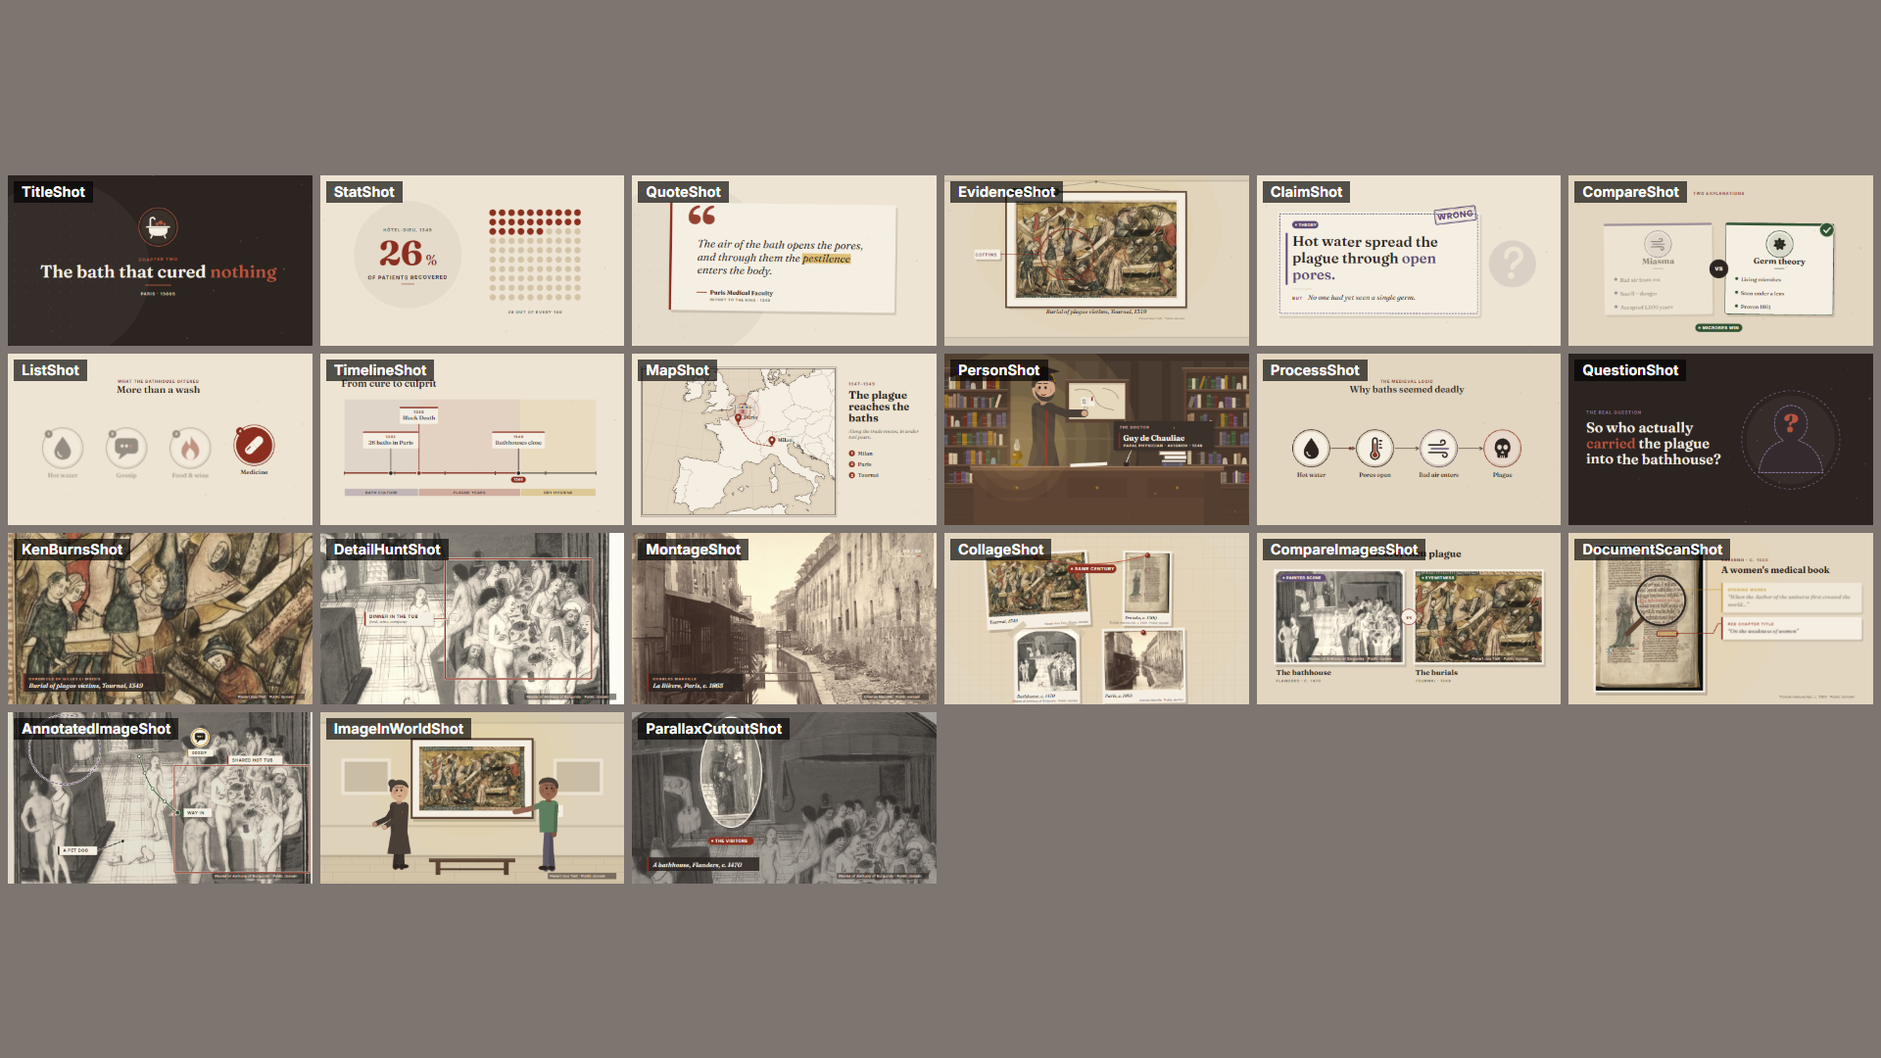
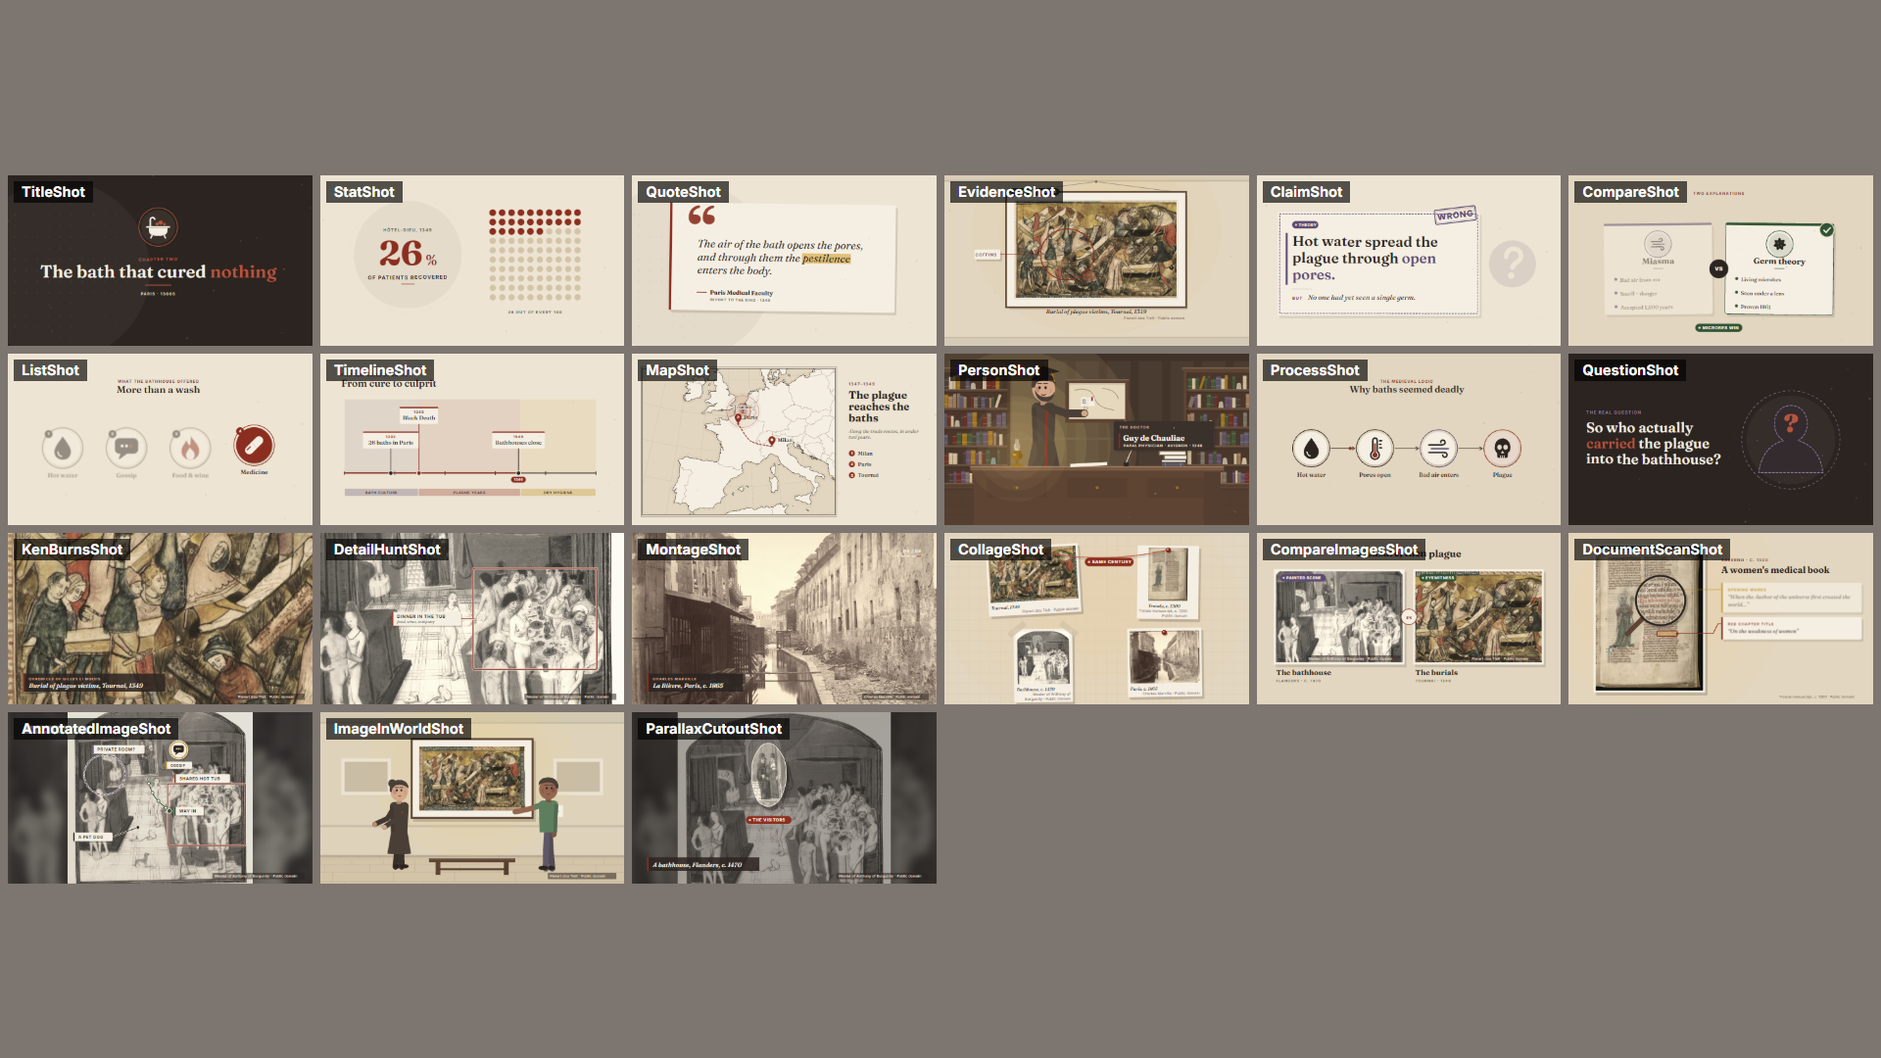
Kit: fix backlog flaws (text >= 22px, balanced collage, paper-cut parallax, framed square/portrait images)

Changed region(s): [[0.0, 0.4889, 0.5, 0.8556], [0.5, 0.5194, 0.6562, 0.6722]]

diff --git a/src/kit/archival.tsx b/src/kit/archival.tsx
@@ -38,14 +38,19 @@ const lerpFocus = (a: Focus, b: Focus, k: number): Focus => [lerp(a[0], b[0], k)
 /** Tiny handheld drift on a focus (alive holds). */
 const alive = (f: Focus, t: number, seed = 0, amt = 1): Focus => [f[0] + noise1(t * 0.22, seed + 1) * 0.004 * amt, f[1] + noise1(t * 0.2, seed + 2) * 0.004 * amt, f[2] * (1 + noise1(t * 0.17, seed + 3) * 0.004 * amt)];
 
+/** Full-frame images narrower than this (w/h) are shown whole at full height over a calm backdrop, not cropped to a band. */
+const FULL_MIN_ASPECT = 1.3;
+
 /** Where an image of `aspect` (w/h) lands inside a w×h window aimed at focus f: {left, top, IW, IH} (window px). */
 export const viewRect = (w: number, h: number, aspect: number, f: Focus) => {
-  const iw0 = Math.max(w, h * aspect);
+  // Full-frame (1920×1080) window + square/portrait image (aspect < FULL_MIN_ASPECT): show the WHOLE image at full height
+  // (zoom 1 = fit height, centred) instead of cropping to a horizontal band. ArchImage fills the side bars.
+  const iw0 = w === 1920 && h === 1080 && aspect < FULL_MIN_ASPECT ? h * aspect : Math.max(w, h * aspect);
   const ih0 = iw0 / aspect;
   const z = Math.max(1, f[2]);
   const IW = iw0 * z;
   const IH = ih0 * z;
-  return {left: clamp(w / 2 - f[0] * IW, w - IW, 0), top: clamp(h / 2 - f[1] * IH, h - IH, 0), IW, IH};
+  return {left: IW <= w ? (w - IW) / 2 : clamp(w / 2 - f[0] * IW, w - IW, 0), top: clamp(h / 2 - f[1] * IH, h - IH, 0), IW, IH};
 };
 export type ViewRect = ReturnType<typeof viewRect>;
 /** Image point (rx, ry) → window point (add the window's x/y for stage coords). */
@@ -80,7 +85,13 @@ export const ArchImage: React.FC<{
   return (
     <foreignObject x={x} y={y} width={w} height={h} opacity={o}>
       <div style={{width: w, height: h, overflow: 'hidden', position: 'relative', background: bg, clipPath: clip, borderRadius: round ? '50%' : undefined}}>
-        <Img src={staticFile(`${slug}/${src}`)} style={{position: 'absolute', left: v.left, top: v.top, width: v.IW, height: v.IH, maxWidth: 'none', filter: f}} />
+        {v.left > 0 && bg !== 'transparent' && (
+          <Img
+            src={staticFile(`${slug}/${src}`)}
+            style={{position: 'absolute', left: (w - Math.max(w, h * aspect) * 1.12) / 2, top: (h - (Math.max(w, h * aspect) * 1.12) / aspect) / 2, width: Math.max(w, h * aspect) * 1.12, height: (Math.max(w, h * aspect) * 1.12) / aspect, maxWidth: 'none', filter: `${f === 'none' ? '' : f + ' '}blur(28px) brightness(0.55) saturate(0.8)`}}
+          />
+        )}
+        <Img src={staticFile(`${slug}/${src}`)} style={{position: 'absolute', left: v.left, top: v.top, width: v.IW, height: v.IH, maxWidth: 'none', filter: f, boxShadow: v.left > 0 ? `0 24px 70px ${C.ink}88` : undefined}} />
         {tint === 'paper' && <div style={{position: 'absolute', inset: 0, background: C.paper, opacity: 0.12, mixBlendMode: 'multiply'}} />}
         {wash > 0 && <div style={{position: 'absolute', inset: 0, background: C.paper, opacity: wash}} />}
         {dim > 0 && <div style={{position: 'absolute', inset: 0, background: C.ink, opacity: dim}} />}
@@ -492,26 +503,51 @@ const SLOTS: Record<number, [number, number, number][]> = {
     [1460, 720, 470],
   ],
   4: [
-    [640, 300, 600],
-    [1290, 290, 560],
-    [700, 750, 560],
-    [1270, 745, 560],
+    [640, 285, 600],
+    [1290, 285, 560],
+    [700, 775, 560],
+    [1270, 770, 560],
   ],
   5: [
-    [420, 350, 430],
-    [930, 300, 420],
-    [1460, 380, 430],
-    [690, 770, 430],
-    [1260, 790, 430],
+    [420, 335, 430],
+    [930, 285, 420],
+    [1460, 365, 430],
+    [690, 785, 430],
+    [1260, 805, 430],
   ],
   6: [
-    [400, 320, 390],
-    [880, 290, 380],
-    [1390, 320, 410],
-    [540, 770, 410],
-    [1030, 740, 390],
-    [1510, 770, 390],
+    [400, 305, 390],
+    [880, 275, 380],
+    [1390, 305, 410],
+    [540, 785, 410],
+    [1030, 755, 390],
+    [1510, 785, 390],
   ],
+};
+
+/** Split a credit into lines that fit a print's inner width (breaks at " · " first, then at spaces). */
+const wrapCredit = (text: string, maxW: number): string[] => {
+  const fit = (x: string) => textW(x, 22, 'sans', 500) <= maxW;
+  const lines: string[] = [];
+  let cur = '';
+  for (const unit of text.split(' · ')) {
+    const joined = cur ? cur + ' · ' + unit : unit;
+    if (fit(joined)) {
+      cur = joined;
+      continue;
+    }
+    if (cur) lines.push(cur);
+    cur = '';
+    for (const word of unit.split(' ')) {
+      const w2 = cur ? cur + ' ' + word : word;
+      if (cur && !fit(w2)) {
+        lines.push(cur);
+        cur = word;
+      } else cur = w2;
+    }
+  }
+  if (cur) lines.push(cur);
+  return lines;
 };
 
 /**
@@ -530,12 +566,56 @@ export const CollageShot: React.FC<
     const sl = slots[i % slots.length];
     const asp = it.aspect ?? 1.4;
     let w = it.w ?? sl[2];
-    const hMax = items.length <= 2 ? 540 : items.length <= 4 ? 350 : 320;
+    const hMax = items.length <= 2 ? 540 : items.length <= 4 ? 310 : 320;
     if (w / asp > hMax) w = hMax * asp;
     const h = w / asp;
     const rot = it.rot ?? (rand(seed * 3.3 + i * 1.7) - 0.5) * 9;
-    return {x: it.x ?? sl[0], y: it.y ?? sl[1], w, h, rot, at: it.at ?? t0 + i * gap, pad: 14, bottom: it.label && it.credit ? 78 : it.label ? 56 : it.credit ? 36 : 14};
+    const cl = it.credit ? wrapCredit(it.credit, Math.max(w, 340)) : [];
+    const pw = Math.max(w + 28, ...cl.map((ln) => textW(ln, 22, 'sans', 500) + 28)); // paper widens for a long credit line
+    const ex = Math.max(0, cl.length - 1) * 28; // extra room for wrapped credit lines
+    return {x: it.x ?? sl[0], y: it.y ?? sl[1], w, h, rot, at: it.at ?? t0 + i * gap, pad: 14, bottom: (it.label && it.credit ? 80 : it.label ? 56 : it.credit ? 40 : 14) + ex, cl, pw};
   });
+  // Axis-aligned bounds of each (rotated) print incl. paper margin and shadow.
+  const boxOf = (L: (typeof lay)[number]) => {
+    const r = (L.rot * Math.PI) / 180;
+    const hw = L.pw / 2;
+    const hh = (L.h + L.pad + L.bottom) / 2;
+    const oy = (L.bottom - L.pad) / 2;
+    const ex = Math.abs(Math.cos(r)) * hw + Math.abs(Math.sin(r)) * hh;
+    const ey = Math.abs(Math.sin(r)) * hw + Math.abs(Math.cos(r)) * hh;
+    return {x0: L.x - Math.sin(r) * oy - ex, x1: L.x - Math.sin(r) * oy + ex, y0: L.y + Math.cos(r) * oy - ey, y1: L.y + Math.cos(r) * oy + ey};
+  };
+  // A string-link label must fit between the two linked prints: when they sit side by side, push the columns apart.
+  const lbl = link?.label;
+  const lblW = lbl ? textW(lbl.toUpperCase(), 26, 'sansCaps', 700) + 26 * 2.3 + 16 : 0;
+  if (link && lbl && link.style !== 'arrow' && items[link.from].x === undefined && items[link.to].x === undefined) {
+    const A = boxOf(lay[link.from]);
+    const B = boxOf(lay[link.to]);
+    const [l, r] = A.x1 <= B.x1 ? [A, B] : [B, A];
+    const extra = lblW + 24 - (r.x0 - l.x1);
+    if (extra > 0 && Math.min(A.y1, B.y1) - Math.max(A.y0, B.y0) > 0) {
+      const mx = (l.x1 + r.x0) / 2;
+      lay.forEach((L, i) => {
+        if (items[i].x === undefined && items[i].y === undefined) L.x += (L.x < mx ? -1 : 1) * (extra / 2);
+      });
+    }
+  }
+  // Rebalance the auto-placed prints around the frame centre (slots are hand-set and drift left/low); explicit x/y stay as given.
+  {
+    const ext = lay.map(boxOf);
+    const bx0 = Math.min(...ext.map((e) => e.x0));
+    const bx1 = Math.max(...ext.map((e) => e.x1));
+    const by0 = Math.min(...ext.map((e) => e.y0));
+    const by1 = Math.max(...ext.map((e) => e.y1));
+    const dx = 985 - (bx0 + bx1) / 2; // camera drift 915→1005 + settle: aim a little right so the settled frame is centred
+    const dy = clamp(540 - (by0 + by1) / 2, -70, 70);
+    lay.forEach((L, i) => {
+      if (items[i].x === undefined && items[i].y === undefined) {
+        L.x += dx;
+        L.y += dy;
+      }
+    });
+  }
   const pinOf = (i: number): XY => {
     const L = lay[i];
     const r = (L.rot * Math.PI) / 180;
@@ -547,7 +627,7 @@ export const CollageShot: React.FC<
   const mid = link ? {x: (lay[link.from].x + lay[link.to].x) / 2, y: (lay[link.from].y + lay[link.to].y) / 2} : {x: 960, y: 540};
   const k = ramp(t, a - 0.3, b + 0.5, ease.inOutSine);
   const lk = link ? ramp(t, linkAt - 0.2, linkAt + 1.2, ease.inOut) * 0.15 : 0;
-  const cam: CamState = breathe({cx: lerp(lerp(915, 1005, k), mid.x, lk), cy: lerp(lerp(548, 532, k), mid.y, lk), z: lerp(1.02, 1.06, k) + lk * 0.1, r: 0}, t, 0.8);
+  const cam: CamState = breathe({cx: lerp(lerp(915, 1005, k), mid.x, lk), cy: lerp(lerp(548, 532, k), mid.y, lk * 0.5), z: lerp(1.02, 1.06, k) + lk * 0.1, r: 0}, t, 0.8);
   const lineCol = dark ? mixHex(C.inkSoft, C.paperLight, 0.07) : mixHex(C.paperShade, C.ink, 0.06);
   const board_ = (
     <g>
@@ -569,7 +649,7 @@ export const CollageShot: React.FC<
     const s = lerp(1.14, 1, kk);
     const rot = L.rot + (1 - kk) * (i % 2 ? -7 : 7);
     const sh = lerp(34, 12, kk);
-    const W = L.w + L.pad * 2;
+    const W = L.pw;
     const H = L.h + L.pad + L.bottom;
     const fasten = link && link.style !== 'arrow' && (i === link.from || i === link.to) ? 'pin' : (it.fasten ?? (i % 2 ? 'pin' : 'tape'));
     const f: Focus = [0.5, 0.5, lerp(1.0, 1.06, ramp(t, L.at, b + 1, ease.inOutSine))];
@@ -579,8 +659,12 @@ export const CollageShot: React.FC<
         <rect x={-W / 2} y={-L.h / 2 - L.pad} width={W} height={H} rx={3} fill={C.paperLight} />
         <ArchImage slug={slug} src={it.src} x={-L.w / 2} y={-L.h / 2} w={L.w} h={L.h} aspect={it.aspect ?? 1.4} focus={f} tint={tint} />
         {it.credit && (
-          <text x={L.w / 2} y={L.h / 2 + (it.label ? 66 : 28)} textAnchor="end" fontFamily={FONT_SANS} fontWeight={500} fontSize={17} fill={C.inkFaint}>
-            {it.credit}
+          <text x={L.w / 2} y={L.h / 2 + (it.label ? 68 : 30)} textAnchor="end" fontFamily={FONT_SANS} fontWeight={500} fontSize={22} fill={C.inkFaint}>
+            {L.cl.map((ln, j) => (
+              <tspan key={j} x={L.w / 2} dy={j ? 28 : 0}>
+                {ln}
+              </tspan>
+            ))}
           </text>
         )}
         {it.label && (
@@ -628,9 +712,32 @@ export const CollageShot: React.FC<
       );
     }
   }
-  const lbl = link?.label;
-  const lblX = link ? (lay[link.from].x + lay[link.to].x) / 2 : 0;
-  const lblY = link ? (link.style === 'arrow' ? Math.min(lay[link.from].y, lay[link.to].y) - 40 : Math.max(pinOf(link.from).y, pinOf(link.to).y) + 70) : 0;
+  let lblX = link ? (lay[link.from].x + lay[link.to].x) / 2 : 0;
+  let lblY = link ? (link.style === 'arrow' ? Math.min(lay[link.from].y, lay[link.to].y) - 40 : Math.max(pinOf(link.from).y, pinOf(link.to).y) + 70) : 0;
+  if (link && lbl) {
+    // Keep the label clear of every print: search around the default spot for the nearest free position (else least overlap).
+    const lw = lblW;
+    const lh = 26 * 1.9 + 16;
+    const bs = lay.map(boxOf);
+    const fa = bs[link.from];
+    const ta = bs[link.to];
+    if (link.style !== 'arrow' && Math.min(fa.y1, ta.y1) - Math.max(fa.y0, ta.y0) > 0) lblX = fa.x1 <= ta.x0 ? (fa.x1 + ta.x0) / 2 : ta.x1 <= fa.x0 ? (ta.x1 + fa.x0) / 2 : lblX; // centre of the gap between side-by-side prints
+    const over = (x: number, y: number) =>
+      bs.reduce((acc, q) => acc + Math.max(0, Math.min(x + lw / 2, q.x1 + 6) - Math.max(x - lw / 2, q.x0 - 6)) * Math.max(0, Math.min(y + lh / 2, q.y1 + 6) - Math.max(y - lh / 2, q.y0 - 6)), 0);
+    let best = {x: lblX, y: lblY, o: over(lblX, lblY), d: 0};
+    for (let dy2 = -400; dy2 <= 400; dy2 += 20) {
+      for (let dx2 = -420; dx2 <= 420; dx2 += 20) {
+        const x = lblX + dx2;
+        const y = lblY + dy2;
+        if (x - lw / 2 < 60 || x + lw / 2 > 1860 || y - lh / 2 < 90 || y + lh / 2 > 1000) continue;
+        const o = over(x, y);
+        const d = Math.hypot(dx2, dy2);
+        if (o < best.o - 1 || (o <= best.o + 1 && d < best.d && o < 1)) best = {x, y, o, d};
+      }
+    }
+    lblX = best.x;
+    lblY = best.y;
+  }
   return (
     <Stage bg={bg}>
       <World
@@ -1304,17 +1411,20 @@ export const ParallaxCutoutShot: React.FC<ArchBase & {src: string; aspect?: numb
   const par = {x: (cen.x - cenL.x) * 0.7 * depth * lift, y: (cen.y - cenL.y) * 0.7 * depth * lift};
   const sc = 1 + 0.07 * lift;
   const tf = `translate(${cen.x + par.x} ${cen.y + par.y}) scale(${sc}) translate(${-cen.x} ${-cen.y})`;
-  const clip = box ? (box.ell ? `ellipse(${box.w / 2}px ${box.h / 2}px at ${box.x + box.w / 2}px ${box.y + box.h / 2}px)` : `inset(${box.y}px ${1920 - box.x - box.w}px ${1080 - box.y - box.h}px ${box.x}px)`) : `polygon(${pts.map((q) => `${q.x}px ${q.y}px`).join(', ')})`;
+  // An ellipse cut is drawn as a slightly irregular hand-cut outline (a perfect ellipse + thick ring reads as a camera lens).
+  const cutPts: XY[] = box && box.ell ? Array.from({length: 72}, (_, i) => {
+        const th = (i / 72) * Math.PI * 2;
+        const k = 1 + 0.014 * Math.sin(3 * th + seed * 1.7) + 0.01 * Math.sin(5 * th + seed * 3.1) + 0.006 * Math.sin(9 * th + seed * 0.6);
+        return {x: box.x + box.w / 2 + Math.cos(th) * (box.w / 2) * k, y: box.y + box.h / 2 + Math.sin(th) * (box.h / 2) * k};
+      }) : pts;
+  const clip = box && !box.ell ? `inset(${box.y}px ${1920 - box.x - box.w}px ${1080 - box.y - box.h}px ${box.x}px)` : `polygon(${cutPts.map((q) => `${q.x}px ${q.y}px`).join(', ')})`;
   const shape = (props: React.SVGProps<SVGElement>) =>
-    box ? (
-      box.ell ? (
-        <ellipse cx={box.x + box.w / 2} cy={box.y + box.h / 2} rx={box.w / 2} ry={box.h / 2} {...(props as React.SVGProps<SVGEllipseElement>)} />
-      ) : (
-        <rect x={box.x} y={box.y} width={box.w} height={box.h} {...(props as React.SVGProps<SVGRectElement>)} />
-      )
+    box && !box.ell ? (
+      <rect x={box.x} y={box.y} width={box.w} height={box.h} {...(props as React.SVGProps<SVGRectElement>)} />
     ) : (
-      <polygon points={pts.map((q) => `${q.x},${q.y}`).join(' ')} {...(props as React.SVGProps<SVGPolygonElement>)} />
+      <polygon points={cutPts.map((q) => `${q.x},${q.y}`).join(' ')} {...(props as React.SVGProps<SVGPolygonElement>)} />
     );
+  const rim = box && box.ell ? 8 : 14; // thin paper edge for the hand-cut blob, original ring for boxes / polygons
   const bgFilter = `grayscale(${0.55 * lift})`;
   const lp = label ? ramp(t, label.at ?? t0 + 0.7, (label.at ?? t0 + 0.7) + 0.6, ease.linear) : 0;
   const top = box ? box.y : Math.min(...pts.map((q) => q.y));
@@ -1340,8 +1450,9 @@ export const ParallaxCutoutShot: React.FC<ArchBase & {src: string; aspect?: numb
       />
       {lift > 0 && (
         <g transform={tf}>
+          {rim < 14 && <g transform={`translate(${34 * lift} ${46 * lift})`}>{shape({fill: C.ink, opacity: 0.16 * lift})}</g>}
           <g transform={`translate(${18 * lift} ${26 * lift})`}>{shape({fill: C.ink, opacity: 0.4 * lift})}</g>
-          {shape({fill: 'none', stroke: C.paperLight, strokeWidth: 14 * lift, strokeLinejoin: 'round'})}
+          {shape({fill: 'none', stroke: C.paperLight, strokeWidth: rim * lift, strokeLinejoin: 'round'})}
           <ArchImage slug={slug} src={src} x={0} y={0} w={1920} h={1080} aspect={aspect} focus={f} tint={tint} clip={clip} bg="transparent" />
         </g>
       )}

diff --git a/src/gallery/pages/archival.tsx b/src/gallery/pages/archival.tsx
@@ -124,7 +124,7 @@ const SHOTS: ((t: number, a: number, b: number) => React.ReactNode)[] = [
         {kind: 'outline', rx: 0.75, ry: 0.62, rw: 0.42, rh: 0.34, shape: 'box', label: 'Shared hot tub', sem: 'signal', at: a + 0.3},
         {kind: 'outline', rx: 0.2, ry: 0.4, rw: 0.22, rh: 0.22, dashed: true, label: 'Private room?', at: a + 0.8},
         {kind: 'flow', points: [[0.43, 0.42], [0.47, 0.52], [0.55, 0.6]], label: 'Way in', sem: 'evidence', at: a + 1.2, dur: 0.9},
-        {kind: 'icon', rx: 0.62, ry: 0.36, icon: 'speech', label: 'Gossip', sem: 'caution', at: a + 1.7},
+        {kind: 'icon', rx: 0.6, ry: 0.26, icon: 'speech', label: 'Gossip', sem: 'caution', at: a + 1.7},
         {kind: 'label', rx: 0.38, ry: 0.69, text: 'A pet dog', sem: 'ink', at: a + 2.0, dx: -160, dy: 60},
       ]}
     />

diff --git a/src/kit/photo.tsx b/src/kit/photo.tsx
@@ -83,7 +83,7 @@ export const Photo: React.FC<{
         </text>
       )}
       {credit && (
-        <text x={W / 2 - 4} y={h / 2 + pad + (caption ? 78 : 30) + (frame === 'polaroid' ? 10 : 0)} textAnchor="end" fontFamily={FONT_SANS} fontWeight={600} fontSize={16} letterSpacing={1} fill={textCol} opacity={0.85}>
+        <text x={W / 2 - 4} y={h / 2 + pad + (caption ? 78 : 30) + (frame === 'polaroid' ? 10 : 0)} textAnchor="end" fontFamily={FONT_SANS} fontWeight={600} fontSize={22} letterSpacing={1} fill={textCol} opacity={0.85}>
           {credit}
         </text>
       )}

diff --git a/src/kit/text.tsx b/src/kit/text.tsx
@@ -252,7 +252,7 @@ export const Stat: React.FC<{
         )}
       </text>
       {label && (
-        <text x={x} y={y + size * 0.42} textAnchor={anchor} fontFamily={FONT_SANS} fontWeight={700} fontSize={size * 0.15} letterSpacing={size * 0.02} fill={labelColor} opacity={ramp(p, 0.4, 1)}>
+        <text x={x} y={y + size * 0.42} textAnchor={anchor} fontFamily={FONT_SANS} fontWeight={700} fontSize={Math.max(22, size * 0.15)} letterSpacing={size * 0.02} fill={labelColor} opacity={ramp(p, 0.4, 1)}>
           {label.toUpperCase()}
         </text>
       )}

diff --git a/docs/KIT.md b/docs/KIT.md
@@ -95,7 +95,8 @@ Image coords: `rx, ry` = 0..1 of the SOURCE image. `Focus = [fx, fy, zoom]` aims
 Gallery: `{"page":"archival"}` (stills 3.5, 7.5 … 27.5) and `{"page":"archival2"}` (3.5 ImageInWorld, 7.5 ParallaxCutout).
 Helpers exported: `ArchImage` (one image in a window, origin top-left, cover-fit, focus/tint/dim/wash/clip),
 `viewRect` + `onView` (map image coords → window px), `LowerThird`, `CreditLine`.
-Square/portrait images in a full 16:9 frame show only a horizontal band (≈ ry 0.2–0.8 at zoom 1) — aim focus accordingly.
+Full-frame templates show square/portrait images (`aspect` < 1.3) WHOLE at full height (zoom 1 = fit height, centred) over a darkened,
+blurred copy of the same image; landscape images cover the frame as before. `viewRect` follows the same rule for 1920×1080 windows.
 
 ## KenBurnsShot
 Slow motivated move from→to (eased, log zoom) + `beats` re-aiming the camera on cue (eased 1.1 s punch-in, or `cut:true` = hard punch).
@@ -135,7 +136,8 @@ type MontageItem = {src, aspect?, credit?, caption?, kicker?, from?: Focus, to?:
 
 ## CollageShot
 2–6 prints on a board (paper pinboard or `dark`), slight rotations, tape or pins, flat shadows; they drop in on cues, the camera drifts.
-`link` = red string (pin to pin) or arrow between two items + optional Tag label. Labels/credits are written on each print's margin.
+`link` = red string (pin to pin) or arrow between two items + optional Tag label. Labels/credits are written on each print's margin (long credits wrap; the paper widens to fit).
+Auto-placed prints are re-centred on the frame; the link label is moved clear of the prints.
 ```ts
 type CollageItem = {src, aspect?, credit?, label?, at?, x?, y?, w?, rot?, fasten?: 'tape'|'pin'}
 <CollageShot {...base} slug items board?: 'paper'|'dark' tint? link?: {from, to, at?, style?: 'string'|'arrow', label?, kind?: Sem} at? gap?=0.45 />

diff --git a/docs/kit/archival.md b/docs/kit/archival.md
@@ -11,7 +11,8 @@ Image coords: `rx, ry` = 0..1 of the SOURCE image. `Focus = [fx, fy, zoom]` aims
 Gallery: `{"page":"archival"}` (stills 3.5, 7.5 … 27.5) and `{"page":"archival2"}` (3.5 ImageInWorld, 7.5 ParallaxCutout).
 Helpers exported: `ArchImage` (one image in a window, origin top-left, cover-fit, focus/tint/dim/wash/clip),
 `viewRect` + `onView` (map image coords → window px), `LowerThird`, `CreditLine`.
-Square/portrait images in a full 16:9 frame show only a horizontal band (≈ ry 0.2–0.8 at zoom 1) — aim focus accordingly.
+Full-frame templates show square/portrait images (`aspect` < 1.3) WHOLE at full height (zoom 1 = fit height, centred) over a darkened,
+blurred copy of the same image; landscape images cover the frame as before. `viewRect` follows the same rule for 1920×1080 windows.
 
 ## KenBurnsShot
 Slow motivated move from→to (eased, log zoom) + `beats` re-aiming the camera on cue (eased 1.1 s punch-in, or `cut:true` = hard punch).
@@ -51,7 +52,8 @@ type MontageItem = {src, aspect?, credit?, caption?, kicker?, from?: Focus, to?:
 
 ## CollageShot
 2–6 prints on a board (paper pinboard or `dark`), slight rotations, tape or pins, flat shadows; they drop in on cues, the camera drifts.
-`link` = red string (pin to pin) or arrow between two items + optional Tag label. Labels/credits are written on each print's margin.
+`link` = red string (pin to pin) or arrow between two items + optional Tag label. Labels/credits are written on each print's margin (long credits wrap; the paper widens to fit).
+Auto-placed prints are re-centred on the frame; the link label is moved clear of the prints.
 ```ts
 type CollageItem = {src, aspect?, credit?, label?, at?, x?, y?, w?, rot?, fasten?: 'tape'|'pin'}
 <CollageShot {...base} slug items board?: 'paper'|'dark' tint? link?: {from, to, at?, style?: 'string'|'arrow', label?, kind?: Sem} at? gap?=0.45 />

diff --git a/docs/LESSONS.md b/docs/LESSONS.md
@@ -11,5 +11,5 @@
 
 ## Kit backlog
 - See docs/ASSETS.md (catalog of reusable pieces from past videos).
-- Archival templates: CollageShot slightly left-heavy (link label can touch a print); ParallaxCutout ellipse can read as a lens; square/portrait images in full frame show only a band (use frames or MontageShot); collage credits 17 px → raise to ≥ 22 px.
-- Templates: some secondary labels (counts, list captions) are ~18 px at 1080p — raise to ≥ 22 px on next kit pass.
+- Collage with many prints + two-line credits fills the board; prefer ≤ 4 prints when every print has label + long credit.
+- Gallery tiles are rendered at 25%; check text sizes on full-res stills (`node tools/still.mjs`), not on the catalog sheet.
